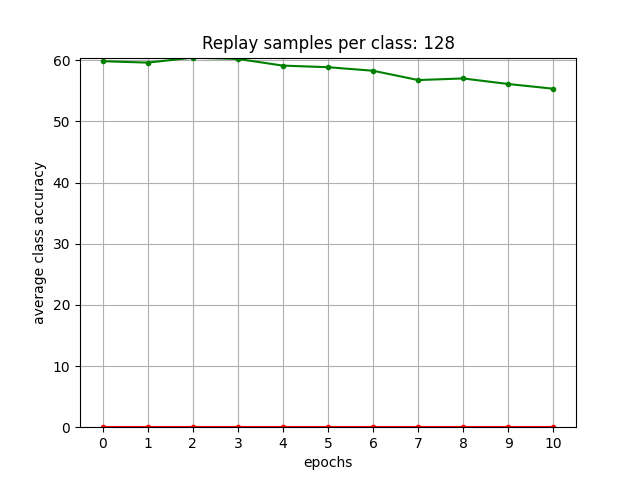
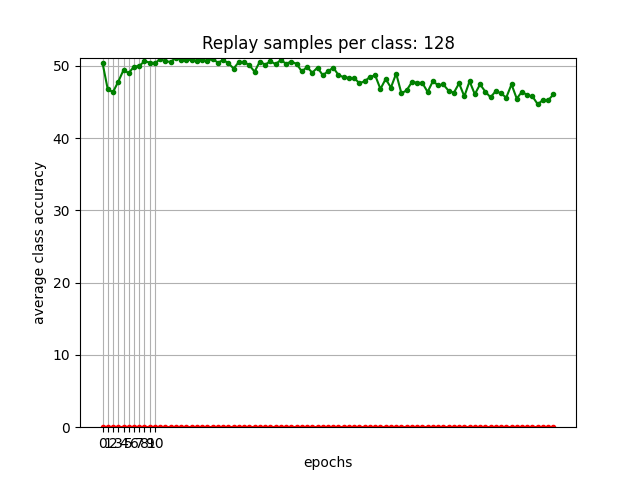
class/sample weighting fix

diff --git a/learners/er.py b/learners/er.py
@@ -84,26 +84,29 @@ class TR(NormalNN):
     def batch_data_weighting(self, output, labels, indices, train_data_batch_size):
         
         if not self.replay_strategy:
-            self.data_weights = torch.concat([self.data_weights, torch.ones(len(indices[:train_data_batch_size])).cuda() ]) 
-            self.data_indices = torch.concat([self.data_indices, indices[:train_data_batch_size]]) 
+            # self.data_weights = torch.concat([self.data_weights, torch.ones(len(indices[:train_data_batch_size])).cuda() ]) 
+            # self.data_indices = torch.concat([self.data_indices, indices[:train_data_batch_size]]) 
+            for ix in indices[:train_data_batch_size]:
+                self.data_weights[int(ix)] = 1
             return
 
-        if self.epoch==self.epochs_of_interest[-1]:
-            batch_weights = dataloaders.compute_weights(self.replay_strategy, output[:train_data_batch_size], labels[:train_data_batch_size])
-            # if self.is_custom_replay_loader and hasattr(self, 'replay_loader') and self.is_batch_sampler:
-            #     self.replay_loader.batch_sampler.update_weights(batch_new_weights=batch_weights, indices=len(self.replay_loader.batch_sampler)+indices[:train_data_batch_size])
-            
-            self.data_weights = torch.concat([self.data_weights, batch_weights]) 
-            self.data_indices = torch.concat([self.data_indices, indices[:train_data_batch_size]]) 
+        
+        batch_weights = dataloaders.compute_weights(self.replay_strategy, output[:train_data_batch_size], labels[:train_data_batch_size])
+        # if self.is_custom_replay_loader and hasattr(self, 'replay_loader') and self.is_batch_sampler:
+        #     self.replay_loader.batch_sampler.update_weights(batch_new_weights=batch_weights, indices=len(self.replay_loader.batch_sampler)+indices[:train_data_batch_size])
+        for ix, w in zip(indices[:train_data_batch_size],batch_weights):
+            self.data_weights[int(ix)] = w
+        # self.data_weights = torch.concat([self.data_weights, batch_weights]) 
+        # self.data_indices = torch.concat([self.data_indices, indices[:train_data_batch_size]]) 
                 
         if self.replay:
             # replay_batch_weights = dataloaders.compute_weights(self.replay_strategy, output[train_data_batch_size:], labels[train_data_batch_size:])
             # if self.is_custom_replay_loader and self.is_batch_sampler:
             #     self.replay_loader.batch_sampler.update_weights(batch_new_weights=replay_batch_weights, indices=indices[train_data_batch_size:])
-            if self.epoch==self.epochs_of_interest[-1]: ## and self.is_custom_replay_loader?
+            # if (self.steps==-1 and self.epoch==self.epochs_of_interest[-1]) or (self.steps!=-1 and self.step_count==self.steps_of_interest[-1]): ## and self.is_custom_replay_loader?
                 # self.replay_loader.sampler.update_weights(batch_new_weights=replay_batch_weights, indices=indices[train_data_batch_size:])
-                replay_batch_weights = dataloaders.compute_weights(self.replay_strategy, output[train_data_batch_size:], labels[train_data_batch_size:]) ##TODO remove this and uncomment at line 100
-                self.replay_dataset.update_weights(batch_new_weights=replay_batch_weights, indices=indices[train_data_batch_size:])
+            replay_batch_weights = dataloaders.compute_weights(self.replay_strategy, output[train_data_batch_size:], labels[train_data_batch_size:]) ##TODO remove this and uncomment at line 100
+            self.replay_dataset.update_weights(batch_new_weights=replay_batch_weights, indices=indices[train_data_batch_size:])
         
     def learn_batch(self, train_loader, train_dataset, replay_dataset, model_save_dir, val_target, task, val_loader=None):
         
@@ -289,13 +292,16 @@ class TR(NormalNN):
             self.replay_dataset.extend(self.train_dataset, class_replay_ratios= self.class_replay_ratios)
         else:
             print ('class_replay_weights: ', { self.labels_to_names[self.class_mapping[cl]]: self.class_replay_weights[cl] for cl in self.class_replay_weights})
-            self.data_indices = torch.argsort(self.data_indices).long()
-            self.replay_dataset.extend(self.train_dataset.data[self.data_indices], self.train_dataset.targets[self.data_indices], self.train_dataset.class_mapping, class_replay_weights= self.class_replay_weights, weights = self.data_weights[self.data_indices], replay_strategy=self.replay_strategy)
+            # self.data_indices = torch.argsort(self.data_indices).long()
+            self.data_indices = torch.Tensor(list(self.data_weights.keys())).long()
+            self.data_weights = torch.Tensor(list(self.data_weights.values())).cuda()
+            
+            self.replay_dataset.extend(self.train_dataset.data[self.data_indices], self.train_dataset.targets[self.data_indices], self.train_dataset.class_mapping, class_replay_weights= self.class_replay_weights, weights = self.data_weights, replay_strategy=self.replay_strategy)
             
             self.num_replay_samples = self.num_replay_samples_init if self.num_replay_samples_init!=-1 else len(self.replay_dataset)
             if self.is_custom_replay_loader:
                 if not hasattr(self, 'replay_loader'):
-                    self.initialise_replay_loader(self.data_weights[self.data_indices])
+                    self.initialise_replay_loader(self.data_weights)
                 # if self.is_batch_sampler:
                 #     self.replay_loader.batch_sampler.sampler.num_samples=self.num_replay_samples
                 #     self.replay_loader.batch_sampler.sampler.class_weights= torch.Tensor(self.replay_dataset.class_weights).cuda()
@@ -303,7 +309,7 @@ class TR(NormalNN):
                 # self.replay_loader.sampler.num_samples=self.num_replay_samples
                 self.replay_loader.sampler.class_weights= torch.Tensor(self.replay_dataset.class_weights).cuda()
                 self.replay_loader.sampler.weights= torch.Tensor(self.replay_dataset.sample_weights).cuda()
-
+                print ('weights after task: ', self.data_weights)
             # if self.replay_strategy:
             #     self.replay_dataset.get_weight_distribution(self.replay_strategy)  
         print ('size of replay dataset:',  len(self.replay_dataset))

diff --git a/learners/default.py b/learners/default.py
@@ -5,7 +5,7 @@ from torch.nn import functional as F
 import models
 
 import copy
-from collections import Counter
+from collections import Counter, OrderedDict
 
 import numpy as np
 import os, math
@@ -116,10 +116,9 @@ class NormalNN(nn.Module):
         if self.epochs_of_interest[-1]!=self.config['schedule'][-1]:
             self.epochs_of_interest.append(self.config['schedule'][-1])
         
-        # self.steps_of_interest = []
-        self.steps_of_interest = [i for i in range(0, self.steps, int(self.steps/10))] if self.steps!=-1 else []
-        # if self.steps_of_interest[1]!=1:
-        #     self.steps_of_interest.insert(1,1)
+        self.steps_of_interest = [i for i in range(0, self.steps, int(self.steps/100))] if self.steps!=-1 else []
+        if self.steps!=-1 and self.steps_of_interest[1]!=1:
+            self.steps_of_interest.insert(1,1)
         if self.steps!=-1 and self.steps_of_interest[-1]!=self.steps:
             self.steps_of_interest.append(self.steps)
        
@@ -154,6 +153,7 @@ class NormalNN(nn.Module):
         if not self.is_oracle and self.replay and self.is_custom_replay_loader:
             self.replay_loader_iter = cycle(self.replay_loader)
 
+        self.data_weights = OrderedDict()
 
     def init_params_epoch(self):
 
@@ -162,9 +162,7 @@ class NormalNN(nn.Module):
         self.per_class_old_features = {}
         self.per_class_new_features = {}
         
-        if not self.is_oracle:
-            self.data_weights = torch.Tensor([]).cuda()
-            self.data_indices = torch.Tensor([])
+        
             # if self.replay:
             #     self.old_classes = set([self.replay_dataset.class_mapping[int(y)] for y in self.replay_dataset.targets])
                 # if self.is_custom_replay_loader:
@@ -310,7 +308,7 @@ class NormalNN(nn.Module):
 
         return loss, output
         
-    def scale_distribution(self, data, classes, rnge=(1,7)):
+    def scale_distribution(self, data, classes, rnge=(1,8)):
 
         t_max = rnge[0]
         t_min = rnge[1]
@@ -350,11 +348,11 @@ class NormalNN(nn.Module):
                 elif int(self.class_weighting_with)==2: ## custom weighting 50%-50%
                     self.class_replay_ratios= { cl: self.class_ratios_manual[cl] for cl in self.class_ratios_manual if cl in self.new_classes}
                 elif int(self.class_weighting_with)==11 and self.epoch!=0: ## dist shift
-                    classes = [ list(self.class_dist_shift_epoch[k].keys()) for k in self.class_dist_shift_epoch][0]
-                    class_dist_shift_epoch_mean = np.mean([ list(self.class_dist_shift_epoch[k].values()) for k in self.class_dist_shift_epoch], axis=0)
-                    self.scale_distribution(class_dist_shift_epoch_mean, classes)
+                    classes = list(self.class_dist_shift_epoch.keys())
+                    class_dist_shift_epoch = np.array(list(self.class_dist_shift_epoch.values()))
+                    self.scale_distribution(class_dist_shift_epoch, classes)
                 elif int(self.class_weighting_with)==12: ## acc shift
-                    classes = [ list(self.class_accuracy_epoch.keys()) ][0]
+                    classes = list(self.class_accuracy_epoch.keys()) 
                     class_accuracy_epoch = np.array(list(self.class_accuracy_epoch.values()))
                     # print (self.class_accuracy_epoch)
                     self.scale_distribution(class_accuracy_epoch, classes)
@@ -362,9 +360,9 @@ class NormalNN(nn.Module):
                 elif int(self.class_weighting_with)==13: ## sim shift TODO not working, incorptorate in dynamic replay criterion/loss function
                     if self.replay:
                         base_path = self.plot_dir+'_after/new_vs_old/epoch_' + str(self.epoch)+'/' if self.epoch>0 else self.plot_dir+'_before/new_vs_old/'
-                        self.sim_table, self.sim_to_new_cls = new_vs_old_class_comparison(self.new_classes, self.old_classes, self.per_class_new_features, self.labels_to_names, self.class_mapping, replay_size = self.replay_size, base_path=base_path, is_oracle=self.is_oracle)
+                        self.sim_table, self.sim_to_new_cls = new_vs_old_class_comparison(self.new_classes, self.old_classes, self.processed_per_class_new_features, self.labels_to_names, self.class_mapping, replay_size = self.replay_size, base_path=base_path, is_oracle=self.is_oracle)
                         # self.sim_to_new_cls = 1-np.array([[ sim_table[k][cl] for cl in sim_table[k]] for k in sim_table]).mean(0) ## for interference
-                        classes = [ list(self.sim_table[k].keys()) for k in self.sim_table][0]
+                        classes = list(self.sim_table.keys())
                         self.scale_distribution(self.sim_to_new_cls, classes)
                     else:
                         # self.class_ratios = { k: 1 for k in self.classes}

diff --git a/utils/metric.py b/utils/metric.py
@@ -62,6 +62,7 @@ def new_vs_old_class_comparison(new_classes, old_classes, class_features, labels
                 new_vs_old_class[labels_to_names[class_mapping[cl]]] = { labels_to_names[class_mapping[k]]: float(MSE(per_class_features[k], per_class_features[cl], dim = dim)) for k in classes}  
 
         elif 'MMD' in metric:
+            # print (class_features[0])
             MMD_kernel  = MMD()
             per_class_features = { k: torch.stack(class_features[k]) for k in class_features}
             # per_class_features = { k: torch.tensor(class_features[k]) for k in class_features}
@@ -138,6 +139,7 @@ def distribution_shift_comparison(labels_to_names, class_mapping, class_new_feat
     # per_class_new_features = { k: torch.Tensor(class_new_features[k]) for k in class_new_features}
     # per_class_old_features = { k: torch.Tensor(class_old_features[k]) for k in class_old_features}
 
+    
     per_class_dist_shift_epoch = {k: float(MMD_kernel.mmd_poly(per_class_new_features[k], per_class_old_features[k], return_diag=True)) for k in per_class_correct_predictions}
 
     if sum(per_class_dist_shift_epoch.values())!=0:
